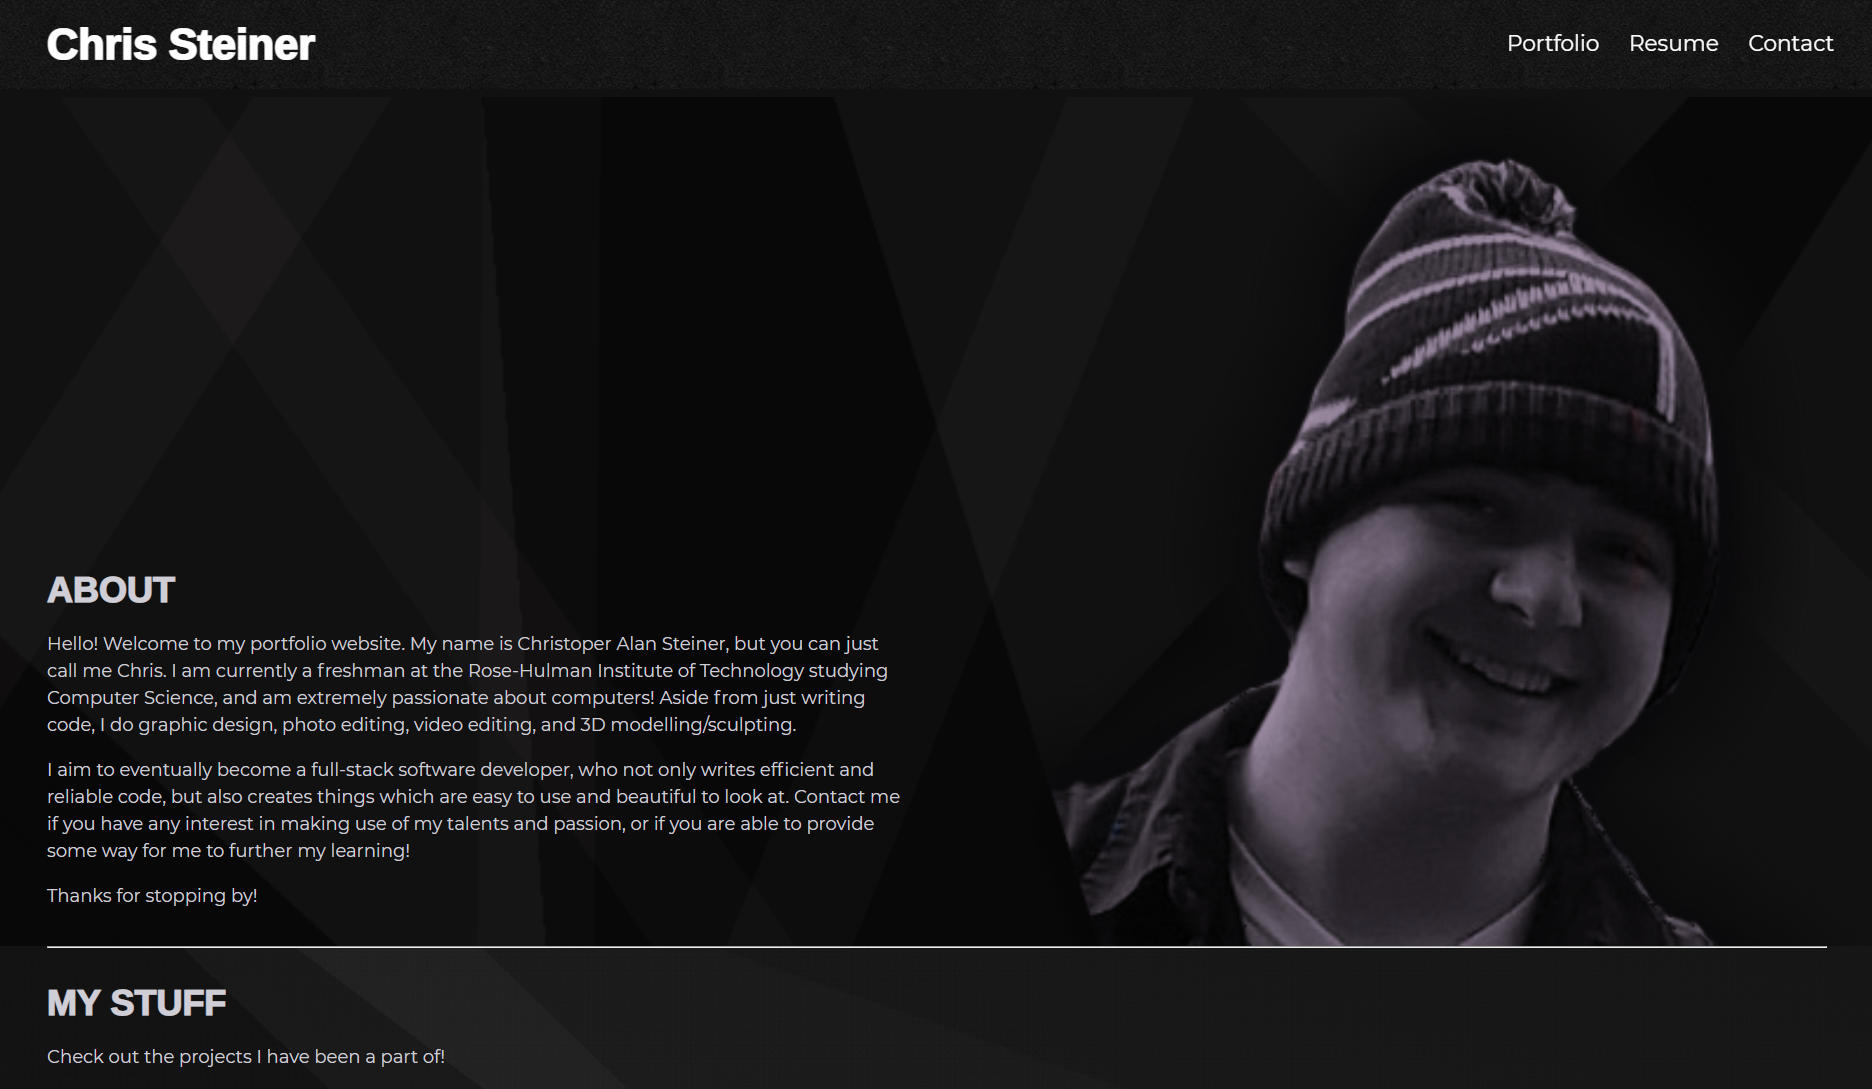
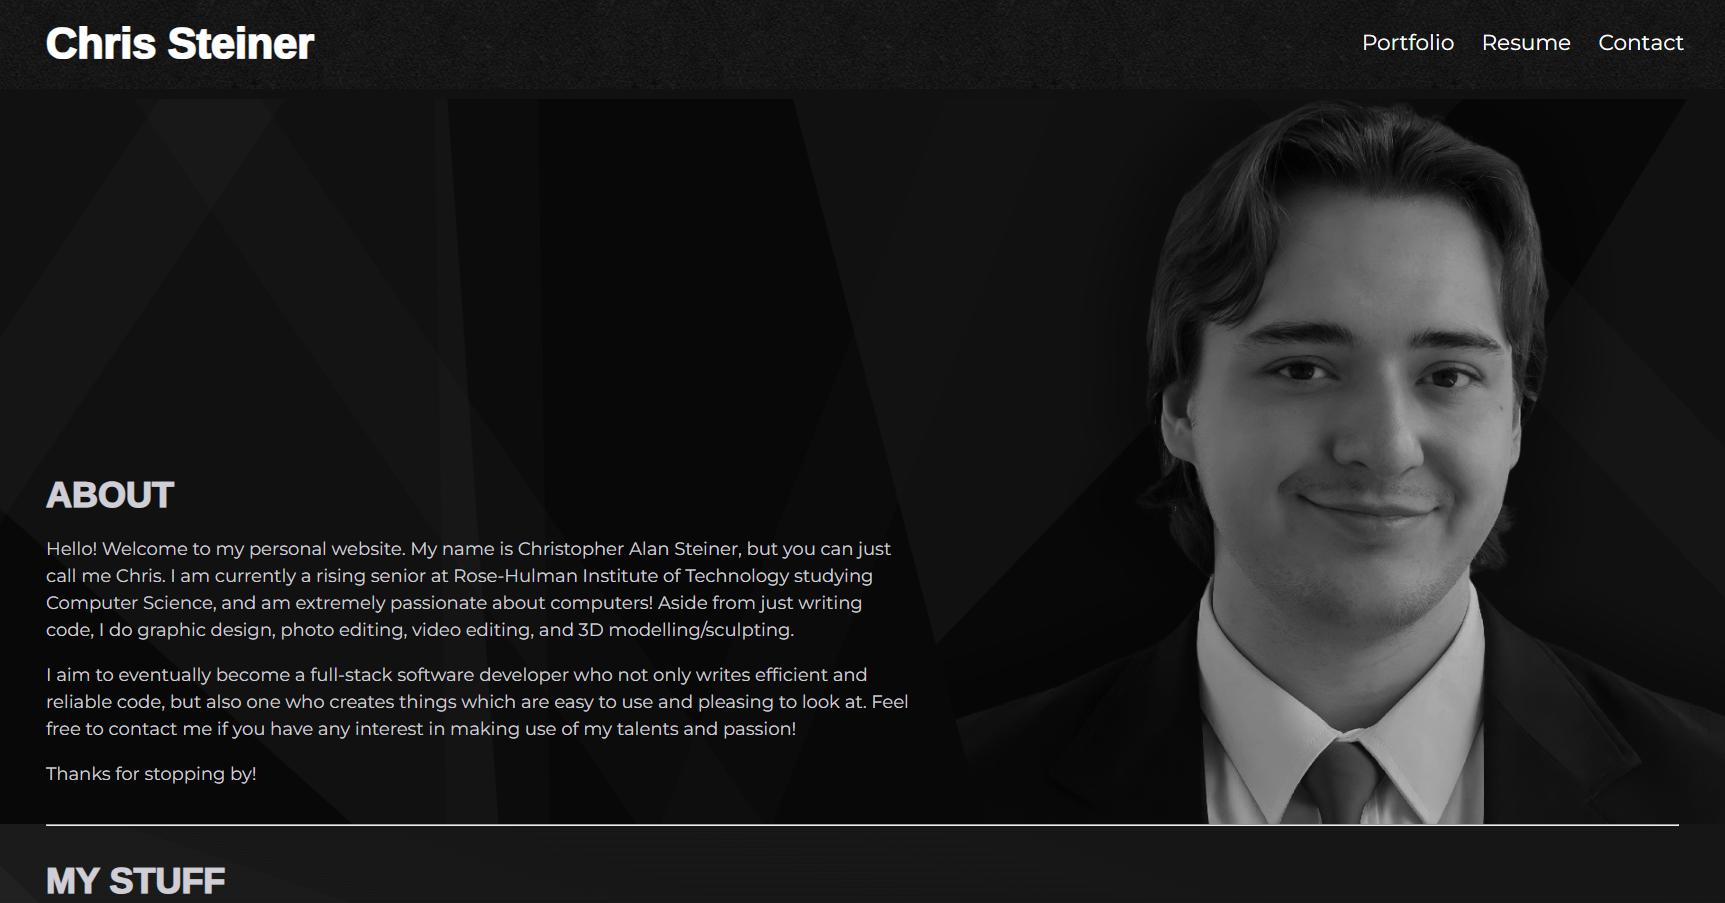
website updates

diff --git a/index.html b/index.html
@@ -51,21 +51,23 @@
                     <h2> Python Game </h2>
                     <script src="https://ajax.googleapis.com/ajax/libs/jquery/2.1.1/jquery.min.js"></script>
                     <img data-enlargeable style="cursor: zoom-in" src="public/images/portfolio/pygame.png"/>
-                    <p> A small game made in python. It is a platformer where you have to
-                    use your memory to match different cards while also avoiding an enemy. </p>
+                    <p> A small game made in python. It is a platformer where you have
+                        to use your memory to match different cards while also avoiding
+                        an enemy. </p>
                 </li>
                 <li class="hideme">
                     <h2><a href="https://github.com/rhit-csse220/csse220-winter-2020-2021-final-project-r_105.git"> Evolution Simulator </a></h2>
                     <script src="https://ajax.googleapis.com/ajax/libs/jquery/2.1.1/jquery.min.js"></script>
                     <img data-enlargeable style="cursor: zoom-in" src="public/images/portfolio/evolsim.png"/>
-                    <p> An evolution simulator. You can create / edit custom "chromosomes",
-                    or randomly generate them to go through evolution with custom properties.
-                    Made using Java. </p>
+                    <p> An evolution simulator. You can create / edit custom
+                        "chromosomes," or randomly generate them to go through
+                        evolution with custom properties. Made using Java. </p>
                 </li>
                 <li class="hideme">
                     <h2> Portfolio Website </h2>
                     <img src="public/images/portfolio/website.png"/>
-                    <p> The page you are currently viewing! Custom CSS using basic HTML elements. </p>
+                    <p> The page you are currently viewing! Custom CSS using basic
+                        HTML elements. </p>
                 </li>
                 <li class="hideme">
                     <h2><a href="https://eldenplanner.web.app/"> Elden Planner </a></h2>
@@ -76,8 +78,22 @@
                     <h2><a href="https://docs.google.com/document/d/1ggeUf7T_nWaaZxkgViTyD1IgzN3ubSADc6UOExVO2uU/edit?usp=sharing"> Accumulator Processor </a></h2>
                     <script src="https://ajax.googleapis.com/ajax/libs/jquery/2.1.1/jquery.min.js"></script>
                     <img data-enlargeable style="cursor: zoom-in" src="public/images/portfolio/architecture.png"/>
-                    <p> A from-scratch computer processor complete with its own unique
-                    assembly language utilizing a single accumulating register. </p>
+                    <p> A from-scratch computer processor complete with its own
+                        unique assembly language utilizing a single accumulating
+                        register. </p>
+                </li>
+                <li class="hideme">
+                    <h2> Database Management Web Application </a></h2>
+                    <script src="https://ajax.googleapis.com/ajax/libs/jquery/2.1.1/jquery.min.js"></script>
+                    <p> Unfortunately, I can't share an actual picture of this application
+                        as it was designed as proprietary software for Navistar, Inc.
+                        during my internship. I am very proud of it though! Made with
+                        ASP.NET. </p>
+                </li>
+                <li class="hideme">
+                    <h2> Armold </a></h2>
+                    <script src="https://ajax.googleapis.com/ajax/libs/jquery/2.1.1/jquery.min.js"></script>
+                    <p> Coming soon... (Spring 2024) </p>
                 </li>
             </ul>
             <a id="resume"></a>
@@ -163,6 +179,14 @@
             <h2 class="hideme"> Experience </h2>
             <ul>
                 <li class="hideme">
+                    <h3><span class="title">  Software Research and Development </span> ~ <span class="date"> June – August 2023 </span></h3>
+                    <p> Internship at Navistar, Inc. </p>
+                    <ul>
+                        <li> Performed in-depth research and analysis on multiple HR related software vendors and presented business case for selection to upper-level management </li>
+                        <li> Developed an ASP.NET web page from scratch to handle database management for IT team </li>
+                    </ul>
+                </li>
+                <li class="hideme">
                     <h3><span class="title">  Game Design and Creative Leadership </span> ~ <span class="date"> June 2020 – Present </span></h3>
                     <p> Multiple Team Projects - GameJam participation </p>
                     <ul>
@@ -176,14 +200,6 @@
                     <ul>
                         <li> Working closely with patrons to ensure quality standards are met in final products </li>
                         <li> Following guidelines and project parameters set </li>
-                    </ul>
-                </li>
-                <li class="hideme">
-                    <h3><span class="title">  Software Research and Development </span> ~ <span class="date"> June – August 2023 </span></h3>
-                    <p> Internship at Navistar, Inc. </p>
-                    <ul>
-                        <li> Performed in-depth research and analysis on multiple HR related software vendors and presented business case for selection to upper-level management </li>
-                        <li> Developed an ASP.NET web page from scratch to handle database management for IT team </li>
                     </ul>
                 </li>
             </ul>

diff --git a/public/styles/main.css b/public/styles/main.css
@@ -68,6 +68,7 @@ body {
     font-family: 'Montserrat', sans-serif;
     background-color: var(--main-bg-color);
     color: var(--body-color);
+    text-shadow: -1px -1px 0 #000, 1px -1px 0 #000, -1px 1px 0 #000, 1px 1px 0 #000;
 }
 
 body {
